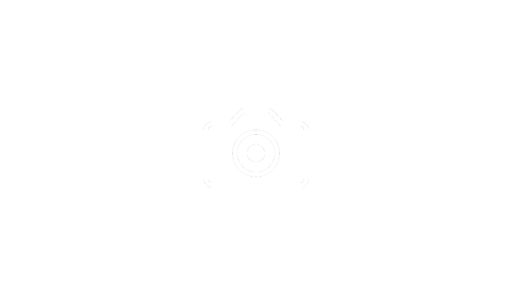
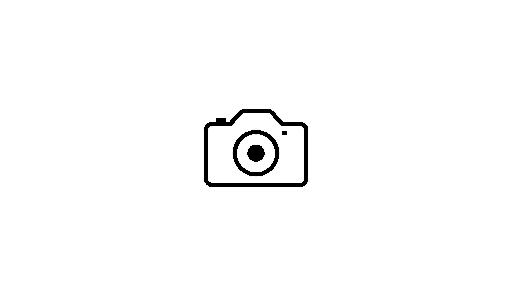
wip: poc for neubrutalism

Changed region(s): [[0.375, 0.3649, 0.625, 0.6385]]

diff --git a/src/lib/Navbar.svelte b/src/lib/Navbar.svelte
@@ -20,31 +20,31 @@
     let date = new Date();
 </script>
 
-<nav class="sticky {show} bg-black z-[100] max-w-full transition-all ease-in-out duration-300">
+<nav class="sticky {show} z-[100] max-w-full transition-all ease-in-out duration-300 border border-b-black shadow">
     <div 
-    class="border border-white text-mono text-white text-lg lg:py-0 py-4 px-4 gap-4 flex grow flex-col lg:flex-row flex-wrap lg:h-24 bg-black lg:justify-normal justify-center items-center text-center"
+    class="text-lg lg:py-0 py-4 px-4 gap-4 flex grow flex-col lg:flex-row flex-wrap lg:h-24  lg:justify-normal justify-center items-center text-center"
     >
         <div>
-            <a href="/" class="text-xl hover:opacity-75"><img src="/assets/logo-tester.png" alt="click me" class="w-16 h-12 rounded-sm active:scale-95"></a>
+            <a href="/" class="text-xl hover:opacity-80"><img src="/assets/logo-tester.png" alt="click me" class="w-16 h-12 rounded-sm active:scale-95"></a>
         </div>
         <div class="flex gap-2">
-            <a href="/meets/{date.getMonth() + 1}/{date.getFullYear()}" class="hover:opacity-75 border border-white p-1 rounded-sm active:scale-95">meets</a>
+            <a href="/meets/{date.getMonth() + 1}/{date.getFullYear()}" class="hover:opacity-80 border border-black p-1 rounded-lg box active:scale-90 transition-all hover:no-box hover:translate-y-1">meets</a>
             <!-- <a href="/market" class="hover:opacity-75">market</a> -->
             <!-- <a href="/forum" class="hover:opacity-75">forum</a> -->
-            <a href="/users" class="hover:opacity-75 border border-white p-1 rounded-sm active:scale-95">users</a>
+            <a href="/users" class="hover:opacity-80 border border-black p-1 rounded-lg box active:scale-90 transition-all hover:no-box hover:translate-y-1">users</a>
         </div>
-        <div class="flex items-center gap-4 lg:mr-1 lg:ml-auto h-full lg:border-l-2 lg:pl-4">
+        <div class="flex items-center gap-4 lg:mr-1 lg:ml-auto h-full lg:pl-4">
             {#if $page.data.session?.user}
-                <a href="/garage/{$page.data.session.user.displayname}" class="hover:opacity-75 w-8 active:scale-95"><img src="/assets/garage.png" alt="garage"></a>
+                <a href="/garage/{$page.data.session.user.displayname}" class="hover:opacity-80 w-8 active:scale-90 shadow"><img src="/assets/garage.png" alt="garage"></a>
                 {#if $page.url.pathname.indexOf("garage") != -1 && !$page.url.pathname.includes(`/garage/${$page.data.session.user.displayname}/my-meets`)}
-                    <a href="/garage/{$page.data.session.user.displayname}/add-car" class="hover:opacity-75 border border-white p-1 rounded-sm active:scale-95">add vehicle</a>
+                    <a href="/garage/{$page.data.session.user.displayname}/add-car" class="hover:opacity-75 border border-black box p-1 rounded-lg transition-all hover:no-box hover:translate-y-1">new wheels</a>
                 {/if}
             {#if $page.data.session.user.role > 0 && $page.url.pathname.indexOf("meets") != -1}
-                <a href="/garage/{$page.data.session.user.displayname}/my-meets" class=" hover:opacity-75 border border-white p-1 rounded-sm active:scale-95">my meets</a>
+                <a href="/garage/{$page.data.session.user.displayname}/my-meets" class=" hover:opacity-75 border border-black box p-1 rounded-lg active:scale-90 transition-all hover:no-box hover:translate-y-1">ur meets</a>
             {/if}
-                <button on:click={() => signOut()} class="hover:opacity-75 border border-white p-1 rounded-sm active:scale-95">log out</button>
+                <button on:click={() => signOut()} class="hover:opacity-75 border border-black box p-1 rounded-lg active:scale-90 transition-all hover:no-box hover:translate-y-1">log out</button>
             {:else}
-                <a href="/login" class="hover:opacity-75 border border-white p-1 rounded-sm active:scale-95">log in</a>
+                <a href="/login" class="hover:opacity-80 border border-black box rounded-lg p-1 active:scale-90 transition-all hover:no-box hover:translate-y-1">login</a>
             {/if}
         </div>
     </div>

diff --git a/src/routes/garage/[slug]/add-car/+page.svelte b/src/routes/garage/[slug]/add-car/+page.svelte
@@ -19,18 +19,20 @@
 </svelte:head>
 
 {#if $page.data.session?.user.displayname == $page.params.slug}
-<div class="flex flex-col lg:flex-row gap-4 justify-center items-center border lg:w-fit mx-auto mt-4 p-4 w-full">
-    <div class="border-2 p-2 sticky top-0 w-full">
+<div class="flex flex-col lg:flex-row gap-4 justify-center items-center border border-black rounded-lg offset-box lg:w-fit mx-auto mt-4 p-4 w-full">
+    <div class="border border-black rounded-xl shadow p-2 sticky top-0 w-full">
         <form class="flex flex-col gap-1" method="POST" enctype="multipart/form-data">
-            <input type="text" class="text-black py-1 px-0.5 rounded-sm" placeholder="model here" id="car" name="car" required bind:value={model}>
-            <input type="file" accept="image/*" id="file" name="file" class="file:bg-black file:border-2 file:border-white file:text-white file:cursor-pointer" bind:value={file} on:change={(e) => uploaded_file(e)} />
-            <textarea class="text-black rounded-sm px-0.5 py-1" id="desc" name="desc" placeholder="description here" bind:value={description}></textarea>
-            <input type="submit" value="add" class="hover:opacity-75 cursor-pointer text-white border border-white rounded-sm">
+            <input type="text" class="text-black border border-black rounded-md p-1 w-74" placeholder="model here" id="car" name="car" required bind:value={model}>
+            <input type="file" accept="image/*" id="file" name="file" class="file:cursor-pointer" bind:value={file} on:change={(e) => uploaded_file(e)} />
+            <textarea class="text-black border border-black rounded-md p-1 w-74" id="desc" name="desc" placeholder="description here" bind:value={description}></textarea>
+            <input type="submit" value="add wheels" class="bg-white text-lg w-28 p-1 mx-auto hover:opacity-80 border border-black rounded-xl box transition-all hover:no-box hover:translate-y-1 cursor-pointer active:scale-90">
         </form>
     </div>
-    <div class="flex flex-col text-center">   
-        <span class="text-2xl font-bold break-all max-w-lg">{model ? model : "your vehicle"}</span>
-        <img src={file ? file : "/assets/image_upload.png"} alt="upload your car" class="border-4 border-white w-full lg:w-[512px] h-[296px] object-cover select-none"/>
+    <div class="flex flex-col text-center gap-1">   
+        <span class="text-xl font-bold break-all max-w-lg">{model ? model : "your vehicle"}</span>
+        <div class="border-2 border-black rounded-md w-full lg:w-[296px] h-[296px] overflow-clip {file ? "p-0 transition-all less-offset-box -translate-x-1 -translate-y-1" : "p-2"}">
+            <img src={file ? file : "/assets/question_marked.png"} alt="upload your car" class="w-full h-full object-cover select-none"/>
+        </div>
         <span class="text-lg font-bold">description</span>
         <p class="max-w-lg break-all">{description ? description : "your description"}</p>
     </div>

diff --git a/src/routes/garage/[slug]/[car]/+page.svelte b/src/routes/garage/[slug]/[car]/+page.svelte
@@ -160,7 +160,7 @@
 
 <a href="/garage/{$page.params.slug}" class="text-3xl hover:opacity-75">&lt;-</a>
 <div class="flex flex-col mt-10 justify-center items-center">
-    <dialog id="delete-prompt" class="bg-black text-white text-center border-2 border-white">
+    <dialog id="delete-prompt" class=" text-center border-2 border-white">
         <div class="p-10">
             <h1 class="text-xl font-bold">this COMPLETELY removes your vehicle. are you sure?</h1>
             <div class="flex justify-center gap-8 text-lg mt-4">
@@ -181,7 +181,7 @@
     {/if}
 
     {#if $page.data.session?.user.displayname == short.username}
-        <dialog id="upload-photo" class="bg-transparent text-white text-center backdrop:backdrop-blur-sm">
+        <dialog id="upload-photo" class="bg-transparent  text-center backdrop:backdrop-blur-sm">
             <div class="justify-start text-left">
                 <button class="text-2xl hover:opacity-75" on:click={close_modal}>x</button>
             </div>
@@ -190,7 +190,7 @@
                 {#if file}
                     <img src={file} alt="upload your car" class="border-4  border-white w-[512px] h-[296px] object-cover cursor-pointer"/>
                 {:else}
-                    <img src="/assets/image_upload.png" alt="upload your car" class="border-4 bg-black border-white w-[512px] h-[296px] object-none cursor-pointer"/>
+                    <img src="/assets/image_upload.png" alt="upload your car" class="border-4 border-white w-[512px] h-[296px] object-none cursor-pointer"/>
                 {/if}
             </label>
             <button class="text-xl font-bold hover:opacity-75 border-2 my-1 border-white p-1 active:scale-95 rounded-sm" on:click={upload_image}>upload</button>
@@ -222,7 +222,7 @@
         {/each}
     </section>
     
-    <dialog id="gallery" class="bg-transparent text-white text-center backdrop:backdrop-blur-sm" bind:clientWidth={width} use:swipe={{ timeframe: 300, minSwipeDistance: 50, touchAction: 'pan-y'}} on:swipe={handler}>
+    <dialog id="gallery" class="bg-transparent text-center backdrop:backdrop-blur-sm" bind:clientWidth={width} use:swipe={{ timeframe: 300, minSwipeDistance: 50, touchAction: 'pan-y'}} on:swipe={handler}>
         {#if show_gallery_modal}
             <div use:clickOutside on:outclick={() => close_gallery()} bind:clientWidth={width} use:swipe={{ timeframe: 300, minSwipeDistance: 50, touchAction: 'pan-y'}} on:swipe={handler}>
                 <div class="justify-start text-left">

diff --git a/src/routes/login/+page.svelte b/src/routes/login/+page.svelte
@@ -8,7 +8,7 @@
 </svelte:head>
 
 {#if !$page.data.session?.user}
-    <div class="flex flex-col gap-4 justify-center items-center mt-10 border-2 border-white w-fit mx-auto p-4">
+    <div class="border-2 border-black rounded-xl offset-box flex flex-col gap-4 justify-center items-center mt-10  w-fit mx-auto p-4">
         <!--<input type="text" placeholder="email" class="px-2 py-1 text-black" bind:value={email}>
         <input type="password" placeholder="password" class="px-2 py-1 text-black" bind:value={password}>
         <button 
@@ -21,20 +21,21 @@
         fuck auth.js and their credential avoiding asses
         -->
         <div class="mr-auto ml-0">
-            <h1 class="text-xl">Log in</h1>
+            <h1 class="text-2xl font-bold">Login</h1>
         </div>
-        <hr class="border w-full">
+        <hr class="border border-black w-full">
+        <span class="text-sm text-gray-400 underline">Sign in with</span>
         <button
-        class="h-12 w-52 border border-white font-bold rounded-md text-lg hover:opacity-75 active:scale-95" 
+        class="h-12 w-52 border border-black font-bold rounded-lg text-lg hover:opacity-80 active:scale-90 box transition-all hover:no-box hover:translate-y-1" 
         on:click={() => signIn("google")}
         >
-        log in with <span class="text-blue-500">G</span><span class="text-red-500">o</span><span class="text-yellow-500">o</span><span class="text-blue-500">g</span><span class="text-green-500">l</span><span class="text-red-500">e</span>
+        <span class="text-blue-500">G</span><span class="text-red-500">o</span><span class="text-yellow-500">o</span><span class="text-blue-500">g</span><span class="text-green-500">l</span><span class="text-red-500">e</span>
         </button>
         <button 
-        class="h-12 w-52 border border-white font-bold rounded-md text-lg hover:opacity-75 active:scale-95" 
+        class="h-12 w-52 border border-black font-bold rounded-lg text-lg hover:opacity-80 active:scale-90 box transition-all hover:no-box hover:translate-y-1" 
         on:click={() => signIn("discord")}
         >
-        log in with <span class="text-purple-200">Discord</span>
+        <span class="text-purple-400">Discord</span>
         </button>
     </div>
 {:else}

diff --git a/src/routes/+page.svelte b/src/routes/+page.svelte
@@ -44,12 +44,12 @@
     <meta property="og:url" content="https://www.carcult.org" />
 </svelte:head>
 
-<body class="font-mono bg-black">
+<body class="font-mono ">
     <div class="flex flex-col justify-center items-center text-center">
         <h1 class="text-4xl font-bold pt-4">carcult</h1>
         <h2 class="text-lg text-gray-400">the best place to find car meets!</h2>
         <section class="mt-4 w-full max-h-96 overflow-y-auto">
-            <h2 class="text-2xl font-bold sticky top-0 bg-black z-50">this week's meets</h2>
+            <h2 class="text-2xl font-bold sticky top-0  z-50">this week's meets</h2>
             <div class="{ meets_arr.length > 0 ?'grid grid-cols-2' : ''} gap-1 lg:flex flex-wrap justify-center items-center lg:max-w-full lg:mx-auto" id="not-meet-carousel"> <!-- this might need to be adjusted a bit teehee -->
             {#if meets_arr.length > 0}
                 {#each meets_arr as meet} <!-- add in a carousel here? gonna require that we copy-paste this -->

diff --git a/src/routes/forum/+page.svelte b/src/routes/forum/+page.svelte
@@ -40,7 +40,7 @@
                         <input type="text" placeholder="title" required class="w-full p-1" bind:value={title} />
                         <textarea placeholder="content" required class="w-full h-48 p-1" bind:value={content}></textarea>
                         <!-- might also allow for attachments here -->
-                        <input type="submit" class="text-white cursor-pointer" value="create thread"/>
+                        <input type="submit" class=" cursor-pointer" value="create thread"/>
                     </form>
                 </div>
             {/if}
@@ -48,7 +48,7 @@
     </div>
     <section class="border-2 bg-white text-black m-2">
         <h1 class="p-2 underline text-2xl font-bold">threads</h1>
-        <div class="border-0 bg-black text-white font-normal">
+        <div class="border-0   font-normal">
             {#each data.forum_posts as post}
                 <PostCard 
                 id={post.id} 

diff --git a/src/routes/market/create/+page.svelte b/src/routes/market/create/+page.svelte
@@ -89,7 +89,7 @@
                 accept="image/*" 
                 on:change={upload_images} 
                 required 
-                class="file:bg-gray-800 file:text-white file:border-0  file:rounded-full file:p-2 file:hover:opacity-75 file:hover:cursor-pointer file:font-bold"
+                class="file:bg-gray-800  file:border-0  file:rounded-full file:p-2 file:hover:opacity-75 file:hover:cursor-pointer file:font-bold"
             >
             <input type="submit" value="create listing" class="bg-gray-700 border border-white p-2 rounded-sm hover:opacity-80 hover:cursor-pointer">
         </form>

diff --git a/src/routes/market/edit/[id]/+page.svelte b/src/routes/market/edit/[id]/+page.svelte
@@ -96,7 +96,7 @@
                 multiple 
                 accept="image/*" 
                 on:change={upload_images} 
-                class="file:bg-gray-800 file:text-white file:border-0  file:rounded-full file:p-2 file:hover:opacity-75 file:hover:cursor-pointer file:font-bold"
+                class="file:bg-gray-800 file:border-0  file:rounded-full file:p-2 file:hover:opacity-75 file:hover:cursor-pointer file:font-bold"
             >
             <input type="submit" value="update listing" class="bg-gray-700 border border-white p-2 rounded-sm hover:opacity-80 hover:cursor-pointer">
         </form>

diff --git a/src/routes/meets/[month]/[year]/+page.svelte b/src/routes/meets/[month]/[year]/+page.svelte
@@ -192,7 +192,7 @@
             </button>
         </div>
         <div class="flex flex-col justify-center items-center mx-auto rounded-sm w-full lg:w-[85rem] p-1">
-            <section class="grid grid-cols-7 mx-auto border border-white w-full lg:w-[84rem] sticky top-0 bg-black z-50 text-center text-xs lg:text-base">
+            <section class="grid grid-cols-7 mx-auto border border-white w-full lg:w-[84rem] sticky top-0  z-50 text-center text-xs lg:text-base">
                 {#each width > 640 ? long_days : short_days as day}
                     <span>{day}</span>
                 {/each}

diff --git a/src/routes/forum/post/[id]/+page.svelte b/src/routes/forum/post/[id]/+page.svelte
@@ -38,7 +38,7 @@
                 <form class="flex flex-col gap-2 justify-center items-center p-2 text-black lg:w-96" on:submit={create_reply}>
                     <textarea placeholder="content" required class="w-full h-48 p-1" bind:value={content}></textarea>
                     <!-- might also allow for attachments here -->
-                    <input type="submit" class="text-white cursor-pointer" value="send reply"/>
+                    <input type="submit" class=" cursor-pointer" value="send reply"/>
                 </form>
             </div>
         {/if}

diff --git a/src/routes/meets/create/+page.svelte b/src/routes/meets/create/+page.svelte
@@ -116,7 +116,7 @@
         <input 
         type="file" 
         accept="image/*" 
-        class="file:border-white file:bg-transparent file:text-white file:border-2 file:rounded-full file:p-2 file:hover:opacity-75 file:hover:cursor-pointer file:font-bold p-1" 
+        class="file:border-white file:bg-transparent file:border-2 file:rounded-full file:p-2 file:hover:opacity-75 file:hover:cursor-pointer file:font-bold p-1" 
         bind:value={bg_img} 
         on:change={(e) => upload_background(e)}
         >

diff --git a/src/routes/+layout.svelte b/src/routes/+layout.svelte
@@ -8,12 +8,12 @@
 
 <div class="flex flex-col h-screen">
 <Navbar />
-<body class="bg-black font-mono text-white antialiased">
+<body>
     <slot />
 </body>
 <footer class="w-full mt-auto mb-0">
-    <hr>
-    <div class="flex flex-col my-2 w-fit">
+    <hr class="border-t border-black">
+    <div class="flex flex-col my-2 w-fit text-sm text-gray-400">
         <h3>copyright © 2024 carcult. All rights reserved.</h3>
         <a href="/">contact us</a>
     </div>
